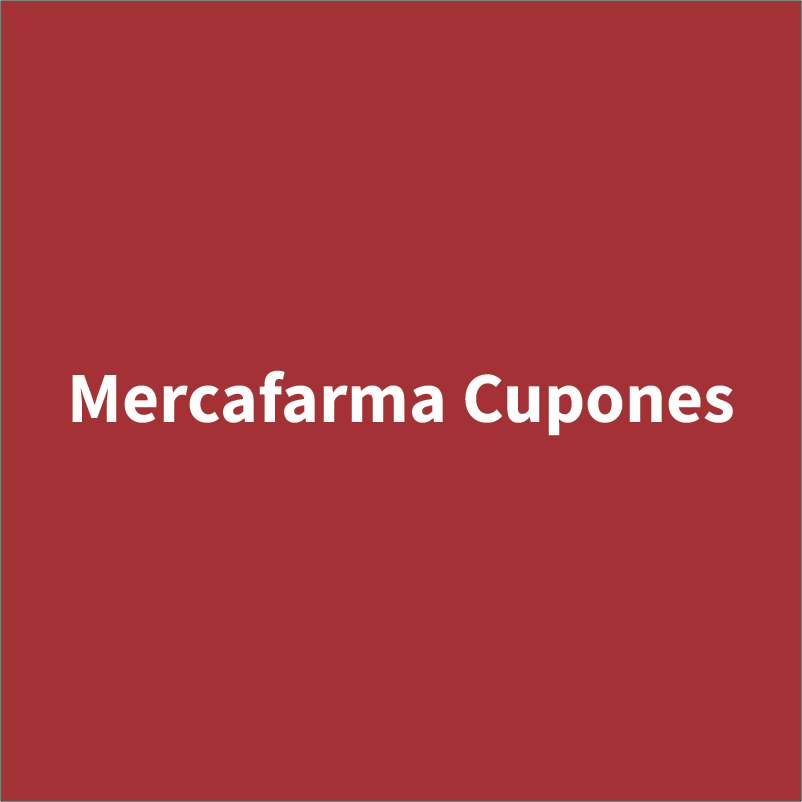
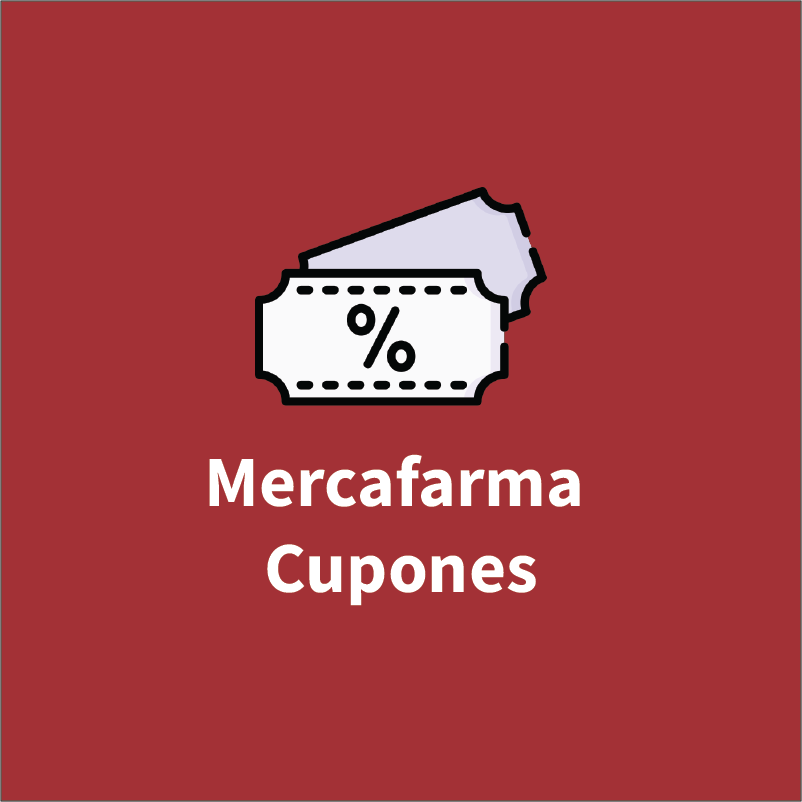
update add plataform

Changed region(s): [[0.0623, 0.2182, 0.9352, 0.7793]]

diff --git a/src/utils/validateIdPlataforms.js b/src/utils/validateIdPlataforms.js
@@ -1,0 +1,100 @@
+import React from 'react'
+
+export function validateIdPlataforms(id) {
+    switch (parseInt(id, 10)) {
+        case 1:
+            return (
+                <>
+                    <p>JARVIS es un sistema diseñado para optimizar y centralizar la gestión de visitas médicas, facilitando las operaciones diarias de los visitadores médicos y fortaleciendo las relaciones comerciales con los profesionales de la salud. Este sistema permite almacenar y gestionar de manera eficiente toda la información general de los médicos, incluyendo sus datos personales, especialidades y ubicaciones, asegurando un acceso rápido y organizado a esta información clave.</p>
+                    <p>Una de las principales funcionalidades de JARVIS es su módulo de gestión de agendas, que permite a los usuarios programar y controlar visitas periódicas a cada médico. La agenda ofrece vistas personalizables por mes, semana o día, proporcionando una visión clara y estructurada del calendario de visitas, lo que mejora la organización y planificación de las actividades del equipo de ventas.</p>
+                    <p>El sistema también incluye herramientas avanzadas para la toma de pedidos de todos los productos comercializados por la empresa, simplificando y agilizando el proceso de registro y seguimiento de solicitudes. Asimismo, JARVIS permite el reporte seguro de pagos en efectivo realizados por los clientes, garantizando transparencia y un mejor control interno sobre estos ingresos.</p>
+                    <p>Otra funcionalidad destacada es la gestión de cupones promocionales, que permite a los visitadores médicos entregar incentivos estratégicos a los profesionales de la salud, fortaleciendo las relaciones comerciales y aumentando la fidelidad de los médicos hacia los productos de la empresa.</p>
+                    <p>Adicionalmente, JARVIS está diseñado con herramientas exclusivas para los visitadores médicos, como la generación de reportes detallados sobre visitas realizadas, pedidos gestionados y un módulo para realizar solicitudes administrativas, como permisos especiales, de manera rápida y eficiente.</p>
+                    <p>Con todas estas características, JARVIS se convierte en una solución completa que no solo optimiza procesos operativos y comerciales, sino que también habilita un control efectivo y promueve la toma de decisiones estratégicas basadas en datos.</p>
+                    <div className="wpo-project-single-title">
+                        <h3>Objetivo</h3>
+                    </div>
+                    <p>El objetivo principal de JARVIS es centralizar y optimizar la gestión de visitas médicas, brindando a los visitadores médicos una herramienta eficiente para mejorar su productividad, fortalecer la relación comercial con los médicos y garantizar un control efectivo de procesos relacionados con ventas, pagos y promociones.</p>
+                    <div className="wpo-project-single-title">
+                        <h3>Alcances</h3>
+                    </div>
+                    {/* s */}
+                    <div className="wpo-project-single-title-plataform">
+                        <h5>Gestión integral de la información de médicos:</h5>
+                    </div>
+                    <ul style={{ listStyleType: 'circle', marginLeft: '30px' }}>
+                        <li>Almacenamiento de datos generales, como nombre, especialidad y ubicación.</li>
+                        <li>Acceso rápido y organizado a la información clave para un mejor entendimiento del cliente.</li>
+                    </ul>
+                    {/*  */}
+                    <div className="wpo-project-single-title-plataform">
+                    <h5>Planificación y control de visitas:</h5>
+                    </div>
+                    <ul style={{ listStyleType: 'circle', marginLeft: '30px' }}>
+                        <li>Módulo de agenda personalizable con vistas mensuales, semanales y diarias.</li>
+                        <li>Programación de visitas periódicas para garantizar un seguimiento constante a cada médico.</li>
+                    </ul>
+                    {/*  */}
+                    <h5>Gestión comercial eficiente:</h5>
+                    <ul style={{ listStyleType: 'circle', marginLeft: '30px' }}>
+                        <li>Toma de pedidos de productos de manera estructurada, simplificando los procesos de ventas.</li>
+                        <li>Registro y reporte de pagos en efectivo realizados por los clientes, asegurando transparencia.</li>
+                    </ul>
+                    {/*  */}
+                    <h5>Promoción y fidelización:</h5>
+                    <ul style={{ listStyleType: 'circle', marginLeft: '30px' }}>
+                        <li>Módulo de gestión de cupones promocionales, facilitando la entrega de incentivos estratégicos a los médicos.</li>
+                    </ul>
+                    {/*  */}
+                    <h5>Herramientas específicas para visitadores médicos:</h5>
+                    <ul style={{ listStyleType: 'circle', marginLeft: '30px' }}>
+                        <li>Reportes detallados de visitas realizadas y pedidos gestionados para un mejor seguimiento de resultados.</li>
+                        <li>Funcionalidad para realizar solicitudes administrativas, como permisos especiales, de forma rápida y directa desde la plataforma.</li>
+                    </ul>
+                    {/*  */}
+                    <h5>Control interno y análisis estratégico:</h5>
+                    <ul style={{ listStyleType: 'circle', marginLeft: '30px' }}>
+                        <li>Consolidación de información clave para garantizar un control interno eficiente.</li>
+                        <li>Generación de reportes estratégicos que facilitan la toma de decisiones informadas basadas en datos actualizados.</li>
+                    </ul>
+                </>
+            );
+        case 2:
+            return (
+                <>
+                <button>Cupones</button>
+
+                </>
+            );
+        case 3:
+            return (
+                <>
+                <button>Diamante</button>
+
+                </>
+            );
+        case 4:
+            return (
+                <>
+                <button>Pago seguro</button>
+
+                </>
+            );
+        case 5:
+            return (
+                <>
+                <button>Ordenes de produccion</button>
+
+                </>
+            );
+        case 6:
+            return (
+                <>
+                <button>Control de activos</button>
+
+                </>
+            );
+        default:
+            return null;
+    }
+}

diff --git a/src/main-component/ProjectSinglePage/ProjectSinglePage.js b/src/main-component/ProjectSinglePage/ProjectSinglePage.js
@@ -7,11 +7,16 @@ import Project from '../../api/project';
 import Contact from './contact';
 import RelatedProject from './related';
 import Footer2 from '../../components/footer2/Footer2';
+import { validateIdPlataforms } from '../../utils/validateIdPlataforms';
 
 const ProjectSinglePage = (props) => {
     const { id } = useParams()
 
+    const textoParrafo = validateIdPlataforms(id);
+
     const projectDetails = Project.find(item => item.Id === id)
+
+  
 
     return (
         <Fragment>
@@ -28,6 +33,9 @@ const ProjectSinglePage = (props) => {
                                             <div className="wpo-project-single-title">
                                                 <h3>{projectDetails.title} Project</h3>
                                             </div>
+                                            
+                                            <p>{textoParrafo}</p>
+
                                             <p>Lorem ipsum dolor sit amet, consectetur adipiscing elit. Metus dis posuere
                                                 amet
                                                 tincidunt commodo, velit. Ipsum, hac nibh fermentum nisi, platea condimentum

diff --git a/src/components/ProjectSection/ProjectSection.js b/src/components/ProjectSection/ProjectSection.js
@@ -70,7 +70,7 @@ const ProjectSection = (props) => {
                     <div className="col col-xs-12 sortable-project">
                         <div className="wpo-project-container project-slider owl-carousel">
                             <Slider {...settings}>
-                                {Projects.slice(0, 4).map((project, prj) => (
+                                {Projects.slice(0, 6).map((project, prj) => (
                                     <div className="grid" key={prj}>
                                         <div className="wpo-project-item">
                                             <img src={project.pImg} alt="project" className="img img-responsive" />

diff --git a/src/api/project.js b/src/api/project.js
@@ -1,9 +1,9 @@
 import pimg1 from '../images/project/Card-Jarvis.png'
 import pimg2 from '../images/project/mercafarma-cupones.png'
-import pimg3 from '../images/project/img-3.jpg'
+import pimg3 from '../images/project/diamante.png'
 import pimg4 from '../images/project/img-31.jpg'
-import pimg5 from '../images/project/img-4.jpg'
-import pimg6 from '../images/project/img-5.jpg'
+import pimg5 from '../images/project/img-31.jpg'
+import pimg6 from '../images/project/img-31.jpg'
 import pimg7 from '../images/project/img-6.jpg'
 import pimg8 from '../images/project/img-7.jpg'
 import pimg9 from '../images/project/img-8.jpg'

diff --git a/src/sass/page/_project-single.scss b/src/sass/page/_project-single.scss
@@ -16,6 +16,18 @@
             }
         }
 
+        .wpo-project-single-title-plataform {
+            h5 {
+                font-weight: 500;
+                font-size: 25px;
+                line-height: 130.5%;
+
+                @media(max-width:767px) {
+                    font-size: 20px;
+                }
+            }
+        }
+
         .wpo-project-single-item {
             margin-bottom: 50px;
             &:last-child{
